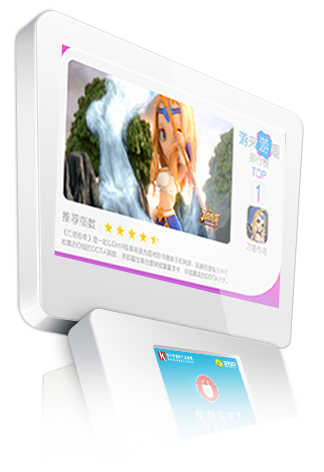
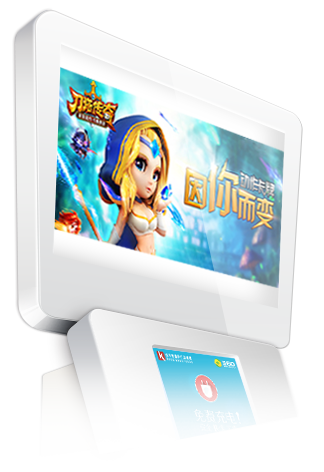
serve.html 图文变更

diff --git a/styles/index.css b/styles/index.css
@@ -1,2 +1,2 @@
-*{margin:0;padding:0;border:0}html{font-family:"Microsoft Yahei", "Helvetica Neue", Helvetica, STHeiTi, Arial, sans-serif;font-size:62.5%}body{margin:0;font-size:14px;font-size:1.4rem;line-height:1.5;background-color:white;height:100%;-webkit-overflow-scrolling:touch}ol,ul,li{list-style-type:none;margin:0;padding:0}a{text-decoration:none}i,em,strong,span,address{font-style:normal}h1,h2{font-size:14px;font-size:1.4rem}h3,h4{font-size:14px;font-size:1.2rem}body,h1,h2,h3,h4,h5,h6,hr,p,blockquote,dl,dt,dd,ul,ol,li,pre,form,fieldset,legend,button,input,textarea,th,td{margin:0;padding:0;word-wrap:break-word}.cf:before,.cf:after{content:"";display:table}.cf:after{clear:both}.cf{zoom:1}article,aside,details,figcaption,figure,footer,header,hgroup,main,nav,section,summary{display:block}audio,canvas,progress,video{display:inline-block;vertical-align:baseline}.about-pro h2 span,.about-team h2 span,.about-history h2 span,.cooperation-bk h2 span,.contact-info-tt h2 span{float:left;width:40px;height:55px;background:#e5e5e5}.about-pro h2 i,.about-team h2 i,.about-history h2 i,.cooperation-bk h2 i,.contact-info-tt h2 i{margin-left:23px;width:50%;height:55px;float:left}.about-pro h2,.about-team h2,.about-history h2,.cooperation-bk h2{height:55px;text-indent:-999em}.serve-warp,.about-wrap,.cooperation-wrap{width:100%;overflow:hidden;background:#fff}.serve-btn{width:96%;overflow:hidden}.icons-sprite,.logo,.banner-tt h2,.item-icon1,.item-icon2,.item-icon3,.serve-tt em,.serve-bg1 article h3,.serve-bg2 article h3,.serve-bg3 article h3,.serve-bg4 article h3,.serve-bg5 article h3,.serve-bg6 article h3,.product-tt h2,.product-content .product-content-tt1,.product-content .product-content-tt2{background:url('../images/icons-scd5a36a2de.png') no-repeat}.icons2-sprite,.about-pro h2 i,.about-team h2 i,.cp-phone,.cp-address,.about-history h2 i,.about-history-big-node span i,.cooperation-bk h2 i,.cooperation-bk2 h2 i,.contact-icon-phone,.contact-icon-fax,.contact-icon-mail,.contact-icon-address,.contact-icon-wx,.wx-box p,.contact-info-tt h2 i,.contact-area .contact-info-tt h2 i,.about-value h2{background:url('../images/icons2-s67d999bacb.png') no-repeat}.nav-list li,.foot-nav li a,.index-block-item-icon span,.v2-item-mv,.v4-index-block .index-block-item .index-block-item-icon,.v4-add p,.serve-btn em,.team-intro,.cooperation-list-pic-box,.pic-box-btn,.pic-box-btn-icon,.contact-icon-wx a{-webkit-transition:all .3s ease-in-out 0s;-moz-transition:all .3s ease-in-out 0s;-ms-transition:all .3s ease-in-out 0s;-o-transition:all .3s ease-in-out 0s;transition:all .3s ease-in-out 0s}body{color:#919da4;background:#f9f9f9}a{color:#919da4}a:hover{color:#346eb4}.wrap-box{margin:0 auto;width:1280px;background:#ffffff}.head{height:120px;overflow:hidden}.logo{float:left;margin:28px 0 0 30px;width:360px;height:63px;overflow:hidden;text-indent:-999em;background-position:0 0}.logo a{height:63px;display:block}.nav-main{float:right;padding-right:25px;height:120px}.nav-list{position:relative;float:right;height:120px;overflow:hidden}.nav-list li{margin-top:50px;float:left;width:100px;height:20px;line-height:20px;text-align:center;border-right:2px solid transparent}.nav-list li:hover>a{color:#0cb4e3}.nav-list li a{font-size:18px;font-size:1.8rem}.nav-list li:nth-last-child(2){border-right:0 none}.nav-list li:nth-child(1):hover ~ .active-line{left:0}.nav-list li:nth-child(2):hover ~ .active-line{left:102px}.nav-list li:nth-child(3):hover ~ .active-line{left:204px}.nav-list li:nth-child(4):hover ~ .active-line{left:306px}.nav-list li:nth-child(5):hover ~ .active-line{left:408px}.nav-list li:nth-child(6):hover ~ .active-line{left:510px}.nav-list li:nth-child(7):hover ~ .active-line{left:612px}.nav-list .active>a{color:#0cb4e3}.nav-list .active-line{position:absolute;top:-50px;left:0;height:6px;border-right:0 none;background:#0cb4e3}.nav-list ul{position:relative;top:0;left:0;z-index:999;display:block;box-shadow:0 3px 5px #ececec}.nav-list ul li{position:relative;top:0;left:0;padding:2px 0;margin-top:0;float:none;opacity:0;display:none;height:0}.nav-list ul li a{font-size:16px;font-size:1.6rem}.nav-list li:hover>ul>li{height:20px;opacity:1;display:block}.slide{height:435px;overflow:hidden;_display:none}.banner-tt{*margin-bottom:40px;height:150px;overflow:hidden}.banner-tt h2{margin:30px auto 0 auto;width:388px;height:85px;background-position:0 -238px;overflow:hidden;text-indent:-999em}.banner-tt h3{margin-top:34px;font-size:34px;text-align:center;font-family:Arial;color:#2b363c}.foot{padding-top:10px;height:78px;background:#f9f9f9;overflow:hidden}.foot p{text-align:center}.foot-nav{margin:30px 25px 0 0;float:right;text-align:center}.foot-nav li{margin-right:30px;display:inline}.foot-nav li a{font-size:14px;font-size:1.4rem;color:#fff}.foot-nav li a:hover{color:#616161}.foot-nav .active a{color:#616161}.index-block{margin-bottom:10px;height:250px;overflow:hidden}.index-block-item{margin-right:0.3125%;float:left;width:33.125%;height:250px;border-radius:10px;background:#50f4d3}.index-block-item:hover span{-webkit-transform:rotate(360deg);-moz-transform:rotate(360deg);-ms-transform:rotate(360deg);-o-transform:rotate(360deg);transform:rotate(360deg)}.index-block-item h3{height:26px;line-height:26px;font-size:24px;font-size:2.4rem;color:#ffffff;font-weight:normal;text-align:center}.index-block-item p{margin:10px 24px 0 24px;text-align:center;font-size:14px;font-size:1.4rem;color:#ffffff}.index-block-item2{background:#43dae3}.index-block-item3{margin-right:0;background:#15bee9}.slide #seven_lbox{display:none}.index-block-item-icon{position:relative;height:160px}.index-block-item-icon span{margin:-32px 0 0 -32px;position:absolute;top:50%;left:50%;width:64px;height:64px;display:block;-webkit-transition-duration:0.5s;-moz-transition-duration:0.5s;-ms-transition-duration:0.5s;-o-transition-duration:0.5s;transition-duration:0.5s}.item-icon1{background-position:0 -911px}.item-icon2{background-position:0 -1031px}.item-icon3{background-position:0 -1105px}.index-block-v2{margin:0 60px 65px 60px;height:156px;overflow:hidden}.v2-item{position:relative;margin-right:12.75862068965517%;float:left;width:288px;height:156px;background:#ff8106;border-radius:30px;overflow:hidden;_margin-right:140px}.v2-item:hover .v2-item-mv{top:-130px}.v2-item-color2{background:#11c8eb}.v2-item-color3{margin-right:0;background:#62ce38}.v2-item-mv{position:absolute;top:0;width:100%;height:312px;overflow:hidden}.v2-item-mv span{position:relative;top:30px;left:50%;margin-left:-32px;width:64px;height:64px;display:block}.v2-item-mv .v2-item-tt{margin-top:40px;height:20px;line-height:20px;font-size:18px;font-size:1.8rem;color:#ffffff;text-align:center}.v2-item-mv .v2-item-info{margin:66px 10px 0 10px;font-size:14px;font-size:1.4rem;color:#ffffff;text-align:center}.index2-slide{height:500px}.v3-banner-tt{background:url(../images/slider-shadow.jpg) 0 0 no-repeat}.v4-index-block{margin-top:40px}.v4-index-block .index-block-item{position:relative;background-color:transparent}.v4-index-block .index-block-item .index-block-item-icon{position:relative;left:50%;margin-left:-52px;width:104px;height:104px;border-radius:50%;background-color:#c1c1c1}.v4-index-block .index-block-item .index-block-item-icon span{border-radius:50%}.v4-index-block .index-block-item .index-block-item-icon2{position:relative;left:50%;margin-left:-42px;width:84px;height:84px}.v4-index-block .index-block-item .index-block-item-icon2 span{width:100%;height:100%;display:block}.v4-index-block .index-block-item .index-block-item-icon2 .item-icon1{background:url(../images/v3-logo1.png) 0 0 no-repeat}.v4-index-block .index-block-item .index-block-item-icon2 .item-icon2{background:url(../images/v3-logo2.png) 0 0 no-repeat}.v4-index-block .index-block-item .index-block-item-icon2 .item-icon3{background:url(../images/v3-logo3.png) 0 0 no-repeat}.v4-index-block .index-block-item h3,.v4-index-block .index-block-item p{color:#a3a3a3}.v4-index-block .index-block-item h3{margin-top:25px}.v4-index-block .index-block-item:hover .index-block-item-icon{background-color:#15bee9}.v4-add p{margin-top:60px;opacity:0}.v4-add:hover>p{margin-top:14px;opacity:1}.v3-banner-tt .v3-banner-img{margin-top:54px;width:525px;height:89px;overflow:hidden;background:url(../images/v3-title.png) 0 0 no-repeat}.server-list{overflow:hidden}.server-list li{height:600px}.server-list li:nth-of-type(2n+2){background:#f9f9f9}.serve-tt{margin:0 auto;overflow:hidden;height:180px;background:#f9f9f9}.serve-tt em{margin:74px auto 0 auto;width:402px;height:44px;display:block;background-position:0 -520px}.serve-section{margin:0 auto;height:600px;overflow:hidden}.serve-section h3{text-indent:-999em;height:74px}.serve-section p{margin-top:12px;font-size:18px;font-size:1.8rem;line-height:34px}.serve-bg1{background:url(../images/1.png) 115px 115px no-repeat}.serve-bg1 article{margin:224px 150px 0 0;float:right;width:390px}.serve-bg1 article h3{background-position:0 -333px}.serve-bg2{background:url(../images/2.png) 682px 110px no-repeat}.serve-bg2 article{margin:240px 0 0 150px;float:left;width:378px}.serve-bg2 article h3{height:75px;background-position:0 -743px}.serve-bg3{background:url(../images/3.png) 168px center no-repeat}.serve-bg3 article{margin:220px 150px 0 0;float:right;width:328px}.serve-bg3 article h3{background-position:0 -574px}.serve-bg4{background:url(../images/4.png) 710px 132px no-repeat}.serve-bg4 article{margin:270px 0 0 146px;float:left;width:392px}.serve-bg4 article h3{height:36px;background-position:0 -474px}.serve-bg5{background:url(../images/5.png) 20% center no-repeat}.serve-bg5 article{margin:196px 226px 0 0;float:right;width:406px}.serve-bg5 article h3{background-position:0 -827px}.serve-bg6{background:url(../images/6.png) 692px 186px no-repeat}.serve-bg6 article{margin:212px 0 0 154px;float:left;width:240px}.serve-bg6 article h3{background-position:0 -658px}.serve-btn{margin:0 auto}.serve-btn em{padding:0 20px;margin:45px auto 30px auto;width:280px;height:50px;line-height:50px;background:#0cb4e3;display:block;text-align:center;border-radius:50px}.serve-btn em:hover{opacity:.8}.serve-btn em a{height:50px;display:block;font-size:18px;font-size:1.8rem;color:#ffffff}.no-cus{cursor:default}.product-wrap{width:100%;overflow:hidden}.product-tt{height:180px;background-color:#f9f9f9;overflow:hidden}.product-tt h2{text-indent:-9999em;margin:70px auto 0 auto;width:409px;height:47px;overflow:hidden;background-position:0 -417px}.product-content{position:relative;height:890px;background:#fff url(../images/product-bg.png) 184px 138px no-repeat;overflow:hidden}.product-content article{float:right;margin:92px 150px 50px 0;width:450px;overflow:hidden}.product-content h3{text-indent:-99999em}.product-content p{margin-top:10px;font-size:18px;font-size:1.8rem;color:#a3a3a3}.product-content .product-content-tt1{height:36px;background-position:0 -985px}.product-content .product-content-tt2{margin-top:85px;height:155px;background-position:0 -73px}.about-banner{height:435px;background:url(../images/banner.jpg) 0 0 no-repeat}.about-wrap{padding-bottom:86px}.about-pro{margin:95px auto 0 auto;overflow:hidden}.about-pro h2{margin-bottom:15px}.about-pro h2 i{background-position:0 -546px}.about-pro p{margin:5px 58px;font-size:16px;font-size:1.6rem;text-indent:2em;color:#a3a3a3;line-height:30px}.about-team{margin:50px auto 0 auto;overflow:hidden}.about-team h2{margin-bottom:15px}.about-team h2 i{background-position:0 -471px}.about-team .about-team-list{margin-left:10.15625%;padding-top:22px;overflow:hidden}.about-team .about-team-list li{position:relative;margin-right:3.75%;float:left;width:224px;height:338px;overflow:hidden}.about-team .about-team-list li:hover .team-intro{opacity:1}.about-team .about-team-list li span{position:relative;width:224px;height:292px;display:block;overflow:hidden}.about-team .about-team-list li span img{width:100%}.about-team .about-team-list li span:after{content:'';position:absolute;top:0;left:0;z-index:999;width:0;height:0;border:35px solid transparent;border-top:35px solid #fff;border-left:35px solid #fff;display:block}.about-team .about-team-list li span:before{content:'';position:absolute;bottom:0;right:0;z-index:999;width:0;height:0;border:40px solid transparent;border-bottom:40px solid #fff;border-right:40px solid #fff;display:block}.about-team .about-team-list li p{height:45px;line-height:45px;font-size:2.4rem;font-size:24px;color:#a3a3a3}.about-subsidiary-list li{padding:30px 0 0 0;width:50%;height:132px;border-bottom:1px solid #ececec;float:left}.about-subsidiary-list li:nth-child(2n)::after{content:'';position:relative;top:-120px;left:-10px;width:1px;height:130px;display:block;border-left:1px solid #ececec}.about-subsidiary-list address{margin-left:5px;height:20px;line-height:20px;margin-bottom:15px;font-size:16px;font-size:1.6rem;color:#a3a3a3}.about-subsidiary-list .cp-name{font-weight:bold;font-size:18px;font-size:1.8rem;color:#919da4}.cp-phone,.cp-address{padding-left:26px}.cp-phone{background-position:0 -967px}.cp-address{background-position:0 -927px}.about-history{margin-top:70px;overflow:hidden}.about-history h2{margin-bottom:15px}.about-history h2 i{background-position:0 -396px}.about-history-big-node{margin:52px 0 32px 136px;height:92px}.about-history-big-node span{position:relative;float:left;width:92px;height:92px;border-radius:50%;background-color:#15bee9}.about-history-big-node span::after{content:'';position:absolute;bottom:-60px;left:45px;width:3px;height:60px;background-color:#15bee9}.about-history-big-node span i{margin:24px 0 0 25px;width:44px;height:44px;display:block;overflow:hidden;background-position:0 -621px}.about-history-big-node p{float:left;margin-left:20px;height:92px;font-size:36px;font-size:3.6rem;line-height:92px;color:#15bee9}.about-history-small-node{margin:0 0 22px 168px;height:30px}.about-history-small-node span{position:relative;float:left;width:30px;height:30px;display:block;border-radius:50%;background-color:#15bee9}.about-history-small-node span::after{content:'';position:absolute;bottom:-50px;left:13px;width:3px;height:62px;background-color:#15bee9}.about-history-small-node p{margin-left:28px;float:left;height:30px;line-height:30px;font-size:18px;font-size:1.8rem;color:#a3a3a3}.big-node-last{margin-left:250px;height:92px;line-height:92px;font-size:36px;font-size:3.6rem;color:#15bee9}.team-intro{position:absolute;top:0;left:0;width:100%;height:292px;opacity:0;background-color:rgba(0,0,0,0.4)}.team-intro .team-info{margin:30px 28px 0 28px;font-size:14px;font-size:1.4rem;color:#ffffff}.team-intro .team-intro-tt{padding-right:10px;height:34px;line-height:34px;font-size:24px;font-size:2.4rem;color:#ffffff;text-align:right;background:rgba(21,190,233,0.6)}.cooperation-wrap{margin-top:30px;background:#ffffff}.cooperation-bk{margin:0 auto;overflow:hidden}.cooperation-bk h2 i{background-position:0 -171px}.cooperation-bk2 h2 i{background-position:0 -246px}.cooperation-list{padding:32px 0 48px 0;overflow:hidden}.cooperation-list li{float:left;width:33.33333333333333%;height:150px;border-radius:5px}.cooperation-list img{width:100%}.cooperation-list em{margin-top:10px;display:block;font-size:18px;font-size:1.8rem;text-align:center}.cooperation-list i{margin-top:4px;display:block;font-size:16px;font-size:1.6rem;color:#a3a3a3;text-align:center}.cooperation-list-pic-box{position:relative;left:20%;width:240px;height:110px;display:block;border-radius:5px;overflow:hidden}.cooperation-list-pic-box img{width:100%}.cooperation-list-pic-box:hover .pic-box-btn{opacity:1}.cooperation-list-pic-box:hover .pic-box-btn-icon{left:50%}.pic-box-btn{position:absolute;top:0;left:0;width:100%;height:100%;background:rgba(0,0,0,0.5);border-radius:5px;opacity:0}.pic-box-btn-icon{padding:10px;position:absolute;top:50%;left:-60px;margin:-20px 0 0 -20px;width:20px;height:20px;display:block;background-color:#ffffff;border-radius:5px;line-height:20px;font-size:20px;font-weight:bold;text-align:center}.pic-box-btn-icon:hover{border-radius:50%}.contact-map{height:435px;overflow:hidden;background:url(../images/map.jpg) 0 0 no-repeat}.contact-info{width:100%;height:205px;overflow:hidden}.contact-info .left{padding-top:30px;float:left;width:72%}.contact-info .left address{margin-left:8.6%;padding-left:40px;height:24px;font-size:16px;font-size:1.6rem;color:#a3a3a3;line-height:24px}.contact-info .right{float:right;width:28%}.contact-icon-phone{background-position:0 -1139px}.contact-icon-fax{background-position:0 -1095px}.contact-icon-mail{background-position:0 -1007px}.contact-icon-address{background-position:0 -1183px}.contact-icon-wx{background-position:0 -1051px}.contact-icon-wx a{color:#0cb4e3;text-decoration:none}.contact-icon-wx a:hover{color:#346eb4}.wx-box{margin-top:55px;height:160px}.wx-box span{margin-left:124px;width:96px;height:96px;display:block}.wx-box span img{width:100px}.wx-box p{margin:10px 0 0 105px;height:22px;padding-left:32px;font-size:16px;font-size:1.6rem;line-height:22px;color:#919da4;background-position:0 -841px}.contact-info-tt{height:55px;overflow:hidden}.contact-info-tt h2{height:55px;text-indent:-9999em}.contact-info-tt h2 i{background-position:0 -321px}.contact-area{overflow:hidden}.contact-area .contact-info-tt h2 i{background-position:0 -48px}.company-item{float:left;width:33.3333333%}.company-item p{margin-left:19%;font-size:18px;font-size:1.8rem;color:#a3a3a3}.content-us-btn{margin:0 auto;height:35px;background:#34baff}.list-wrap{width:100%;overflow:hidden}.list-ullist{width:100%;overflow:hidden}.list-ullist li{padding:0 4%;height:114px;border:1px solid #a5a2a2;background:#ededed;overflow:hidden}.list-ullist li:nth-child(2n+1){background:#f6f6f6}.list-news-date{position:relative;top:50%;margin-top:-30px;padding:10px 6px;width:48px;height:40px;border-radius:5px;background:#0cb4e3}.time-size-little{height:12px;line-height:12px;font-size:10px;font-size:1rem;color:#ffffff;font-family:"Arial";display:block}.time-size-large{height:32px;line-height:32px;font-size:30px;font-size:3rem;color:#ffffff;font-family:"Arial";display:block;text-align:right}.list-news-info{margin-left:70px;overflow:hidden}.list-news-info h2{font-size:20px;font-size:2rem;height:30px;line-height:30px;border-bottom:1px solid #ececec}.list-news-info p{height:29px;line-height:29px;font-size:16px;font-size:1.6rem;color:#a3a3a3}.about-value{margin-top:15px}.about-value h2{margin-bottom:15px;background-position:0 0}.letter-sp{letter-spacing:2px;margin-top:30px;margin-bottom:2px}a[href^="http://www.51.la"]{display:none}#seven_lbox{display:none}
+*{margin:0;padding:0;border:0}html{font-family:"Microsoft Yahei", "Helvetica Neue", Helvetica, STHeiTi, Arial, sans-serif;font-size:62.5%}body{margin:0;font-size:14px;font-size:1.4rem;line-height:1.5;background-color:white;height:100%;-webkit-overflow-scrolling:touch}ol,ul,li{list-style-type:none;margin:0;padding:0}a{text-decoration:none}i,em,strong,span,address{font-style:normal}h1,h2{font-size:14px;font-size:1.4rem}h3,h4{font-size:14px;font-size:1.2rem}body,h1,h2,h3,h4,h5,h6,hr,p,blockquote,dl,dt,dd,ul,ol,li,pre,form,fieldset,legend,button,input,textarea,th,td{margin:0;padding:0;word-wrap:break-word}.cf:before,.cf:after{content:"";display:table}.cf:after{clear:both}.cf{zoom:1}article,aside,details,figcaption,figure,footer,header,hgroup,main,nav,section,summary{display:block}audio,canvas,progress,video{display:inline-block;vertical-align:baseline}.about-pro h2 span,.about-team h2 span,.about-history h2 span,.cooperation-bk h2 span,.contact-info-tt h2 span{float:left;width:40px;height:55px;background:#e5e5e5}.about-pro h2 i,.about-team h2 i,.about-history h2 i,.cooperation-bk h2 i,.contact-info-tt h2 i{margin-left:23px;width:50%;height:55px;float:left}.about-pro h2,.about-team h2,.about-history h2,.cooperation-bk h2{height:55px;text-indent:-999em}.serve-warp,.about-wrap,.cooperation-wrap{width:100%;overflow:hidden;background:#fff}.serve-btn{width:96%;overflow:hidden}.icons-sprite,.logo,.banner-tt h2,.item-icon1,.item-icon2,.item-icon3,.serve-tt em,.serve-bg1 article h3,.serve-bg2 article h3,.serve-bg3 article h3,.serve-bg4 article h3,.serve-bg5 article h3,.serve-bg6 article h3,.product-tt h2,.product-content .product-content-tt1,.product-content .product-content-tt2{background:url('../images/icons-scd5a36a2de.png') no-repeat}.icons2-sprite,.about-pro h2 i,.about-team h2 i,.cp-phone,.cp-address,.about-history h2 i,.about-history-big-node span i,.cooperation-bk h2 i,.cooperation-bk2 h2 i,.contact-icon-phone,.contact-icon-fax,.contact-icon-mail,.contact-icon-address,.contact-icon-wx,.wx-box p,.contact-info-tt h2 i,.contact-area .contact-info-tt h2 i,.about-value h2{background:url('../images/icons2-s67d999bacb.png') no-repeat}.nav-list li,.foot-nav li a,.index-block-item-icon span,.v2-item-mv,.v4-index-block .index-block-item .index-block-item-icon,.v4-add p,.serve-btn em,.team-intro,.cooperation-list-pic-box,.pic-box-btn,.pic-box-btn-icon,.contact-icon-wx a{-webkit-transition:all .3s ease-in-out 0s;-moz-transition:all .3s ease-in-out 0s;-ms-transition:all .3s ease-in-out 0s;-o-transition:all .3s ease-in-out 0s;transition:all .3s ease-in-out 0s}body{color:#919da4;background:#f9f9f9}a{color:#919da4}a:hover{color:#346eb4}.wrap-box{margin:0 auto;width:1280px;background:#ffffff}.head{height:120px;overflow:hidden}.logo{float:left;margin:28px 0 0 30px;width:360px;height:63px;overflow:hidden;text-indent:-999em;background-position:0 0}.logo a{height:63px;display:block}.nav-main{float:right;padding-right:25px;height:120px}.nav-list{position:relative;float:right;height:120px;overflow:hidden}.nav-list li{margin-top:50px;float:left;width:100px;height:20px;line-height:20px;text-align:center;border-right:2px solid transparent}.nav-list li:hover>a{color:#0cb4e3}.nav-list li a{font-size:18px;font-size:1.8rem}.nav-list li:nth-last-child(2){border-right:0 none}.nav-list li:nth-child(1):hover ~ .active-line{left:0}.nav-list li:nth-child(2):hover ~ .active-line{left:102px}.nav-list li:nth-child(3):hover ~ .active-line{left:204px}.nav-list li:nth-child(4):hover ~ .active-line{left:306px}.nav-list li:nth-child(5):hover ~ .active-line{left:408px}.nav-list li:nth-child(6):hover ~ .active-line{left:510px}.nav-list li:nth-child(7):hover ~ .active-line{left:612px}.nav-list .active>a{color:#0cb4e3}.nav-list .active-line{position:absolute;top:-50px;left:0;height:6px;border-right:0 none;background:#0cb4e3}.nav-list ul{position:relative;top:0;left:0;z-index:999;display:block;box-shadow:0 3px 5px #ececec}.nav-list ul li{position:relative;top:0;left:0;padding:2px 0;margin-top:0;float:none;opacity:0;display:none;height:0}.nav-list ul li a{font-size:16px;font-size:1.6rem}.nav-list li:hover>ul>li{height:20px;opacity:1;display:block}.slide{height:435px;overflow:hidden;_display:none}.banner-tt{*margin-bottom:40px;height:150px;overflow:hidden}.banner-tt h2{margin:30px auto 0 auto;width:388px;height:85px;background-position:0 -238px;overflow:hidden;text-indent:-999em}.banner-tt h3{margin-top:34px;font-size:34px;text-align:center;font-family:Arial;color:#2b363c}.foot{padding-top:10px;height:78px;background:#f9f9f9;overflow:hidden}.foot p{text-align:center}.foot-nav{margin:30px 25px 0 0;float:right;text-align:center}.foot-nav li{margin-right:30px;display:inline}.foot-nav li a{font-size:14px;font-size:1.4rem;color:#fff}.foot-nav li a:hover{color:#616161}.foot-nav .active a{color:#616161}.index-block{margin-bottom:10px;height:250px;overflow:hidden}.index-block-item{margin-right:0.3125%;float:left;width:33.125%;height:250px;border-radius:10px;background:#50f4d3}.index-block-item:hover span{-webkit-transform:rotate(360deg);-moz-transform:rotate(360deg);-ms-transform:rotate(360deg);-o-transform:rotate(360deg);transform:rotate(360deg)}.index-block-item h3{height:26px;line-height:26px;font-size:24px;font-size:2.4rem;color:#ffffff;font-weight:normal;text-align:center}.index-block-item p{margin:10px 24px 0 24px;text-align:center;font-size:14px;font-size:1.4rem;color:#ffffff}.index-block-item2{background:#43dae3}.index-block-item3{margin-right:0;background:#15bee9}.slide #seven_lbox{display:none}.index-block-item-icon{position:relative;height:160px}.index-block-item-icon span{margin:-32px 0 0 -32px;position:absolute;top:50%;left:50%;width:64px;height:64px;display:block;-webkit-transition-duration:0.5s;-moz-transition-duration:0.5s;-ms-transition-duration:0.5s;-o-transition-duration:0.5s;transition-duration:0.5s}.item-icon1{background-position:0 -911px}.item-icon2{background-position:0 -1031px}.item-icon3{background-position:0 -1105px}.index-block-v2{margin:0 60px 65px 60px;height:156px;overflow:hidden}.v2-item{position:relative;margin-right:12.75862068965517%;float:left;width:288px;height:156px;background:#ff8106;border-radius:30px;overflow:hidden;_margin-right:140px}.v2-item:hover .v2-item-mv{top:-130px}.v2-item-color2{background:#11c8eb}.v2-item-color3{margin-right:0;background:#62ce38}.v2-item-mv{position:absolute;top:0;width:100%;height:312px;overflow:hidden}.v2-item-mv span{position:relative;top:30px;left:50%;margin-left:-32px;width:64px;height:64px;display:block}.v2-item-mv .v2-item-tt{margin-top:40px;height:20px;line-height:20px;font-size:18px;font-size:1.8rem;color:#ffffff;text-align:center}.v2-item-mv .v2-item-info{margin:66px 10px 0 10px;font-size:14px;font-size:1.4rem;color:#ffffff;text-align:center}.index2-slide{height:500px}.v3-banner-tt{background:url(../images/slider-shadow.jpg) 0 0 no-repeat}.v4-index-block{margin-top:40px}.v4-index-block .index-block-item{position:relative;background-color:transparent}.v4-index-block .index-block-item .index-block-item-icon{position:relative;left:50%;margin-left:-52px;width:104px;height:104px;border-radius:50%;background-color:#c1c1c1}.v4-index-block .index-block-item .index-block-item-icon span{border-radius:50%}.v4-index-block .index-block-item .index-block-item-icon2{position:relative;left:50%;margin-left:-42px;width:84px;height:84px}.v4-index-block .index-block-item .index-block-item-icon2 span{width:100%;height:100%;display:block}.v4-index-block .index-block-item .index-block-item-icon2 .item-icon1{background:url(../images/v3-logo1.png) 0 0 no-repeat}.v4-index-block .index-block-item .index-block-item-icon2 .item-icon2{background:url(../images/v3-logo2.png) 0 0 no-repeat}.v4-index-block .index-block-item .index-block-item-icon2 .item-icon3{background:url(../images/v3-logo3.png) 0 0 no-repeat}.v4-index-block .index-block-item h3,.v4-index-block .index-block-item p{color:#a3a3a3}.v4-index-block .index-block-item h3{margin-top:25px}.v4-index-block .index-block-item:hover .index-block-item-icon{background-color:#15bee9}.v4-add p{margin-top:60px;opacity:0}.v4-add:hover>p{margin-top:14px;opacity:1}.v3-banner-tt .v3-banner-img{margin-top:54px;width:525px;height:89px;overflow:hidden;background:url(../images/v3-title.png) 0 0 no-repeat}.server-list{overflow:hidden}.server-list li{height:600px}.server-list li:nth-of-type(2n+2){background:#f9f9f9}.serve-tt{margin:0 auto;overflow:hidden;height:180px;background:#f9f9f9}.serve-tt em{margin:74px auto 0 auto;width:402px;height:44px;display:block;background-position:0 -520px}.serve-section{margin:0 auto;height:600px;overflow:hidden}.serve-section h3{text-indent:-999em;height:74px}.serve-section p{margin-top:12px;font-size:18px;font-size:1.8rem;line-height:34px}.serve-bg1{background:url(../images/1.png) 700px 50px no-repeat}.serve-bg1 article{margin:220px 0 0 150px;float:left;width:390px}.serve-bg1 article h3{background-position:0 -333px}.serve-bg2{background:url(../images/2.png) 150px 110px no-repeat}.serve-bg2 article{margin:240px 0 0 750px;float:left;width:378px}.serve-bg2 article h3{height:75px;background-position:0 -743px}.serve-bg3{background:url(../images/3.png) 168px center no-repeat}.serve-bg3 article{margin:220px 150px 0 0;float:right;width:328px}.serve-bg3 article h3{background-position:0 -574px}.serve-bg4{background:url(../images/4.png) 710px 132px no-repeat}.serve-bg4 article{margin:270px 0 0 146px;float:left;width:392px}.serve-bg4 article h3{height:36px;background-position:0 -474px}.serve-bg5{background:url(../images/5.png) 20% center no-repeat}.serve-bg5 article{margin:196px 226px 0 0;float:right;width:406px}.serve-bg5 article h3{background-position:0 -827px}.serve-bg6{background:url(../images/6.png) 708px 74px no-repeat}.serve-bg6 article{margin:212px 0 0 154px;float:left;width:240px}.serve-bg6 article h3{background-position:0 -658px}.serve-btn{margin:0 auto}.serve-btn em{padding:0 20px;margin:45px auto 30px auto;width:280px;height:50px;line-height:50px;background:#0cb4e3;display:block;text-align:center;border-radius:50px}.serve-btn em:hover{opacity:.8}.serve-btn em a{height:50px;display:block;font-size:18px;font-size:1.8rem;color:#ffffff}.no-cus{cursor:default}.product-wrap{width:100%;overflow:hidden}.product-tt{height:180px;background-color:#f9f9f9;overflow:hidden}.product-tt h2{text-indent:-9999em;margin:70px auto 0 auto;width:409px;height:47px;overflow:hidden;background-position:0 -417px}.product-content{position:relative;height:890px;background:#fff url(../images/product-bg.png) 184px 138px no-repeat;overflow:hidden}.product-content article{float:right;margin:92px 150px 50px 0;width:450px;overflow:hidden}.product-content h3{text-indent:-99999em}.product-content p{margin-top:10px;font-size:18px;font-size:1.8rem;color:#a3a3a3}.product-content .product-content-tt1{height:36px;background-position:0 -985px}.product-content .product-content-tt2{margin-top:85px;height:155px;background-position:0 -73px}.about-banner{height:435px;background:url(../images/banner.jpg) 0 0 no-repeat}.about-wrap{padding-bottom:86px}.about-pro{margin:95px auto 0 auto;overflow:hidden}.about-pro h2{margin-bottom:15px}.about-pro h2 i{background-position:0 -546px}.about-pro p{margin:5px 58px;font-size:16px;font-size:1.6rem;text-indent:2em;color:#a3a3a3;line-height:30px}.about-team{margin:50px auto 0 auto;overflow:hidden}.about-team h2{margin-bottom:15px}.about-team h2 i{background-position:0 -471px}.about-team .about-team-list{margin-left:10.15625%;padding-top:22px;overflow:hidden}.about-team .about-team-list li{position:relative;margin-right:3.75%;float:left;width:224px;height:338px;overflow:hidden}.about-team .about-team-list li:hover .team-intro{opacity:1}.about-team .about-team-list li span{position:relative;width:224px;height:292px;display:block;overflow:hidden}.about-team .about-team-list li span img{width:100%}.about-team .about-team-list li span:after{content:'';position:absolute;top:0;left:0;z-index:999;width:0;height:0;border:35px solid transparent;border-top:35px solid #fff;border-left:35px solid #fff;display:block}.about-team .about-team-list li span:before{content:'';position:absolute;bottom:0;right:0;z-index:999;width:0;height:0;border:40px solid transparent;border-bottom:40px solid #fff;border-right:40px solid #fff;display:block}.about-team .about-team-list li p{height:45px;line-height:45px;font-size:2.4rem;font-size:24px;color:#a3a3a3}.about-subsidiary-list li{padding:30px 0 0 0;width:50%;height:132px;border-bottom:1px solid #ececec;float:left}.about-subsidiary-list li:nth-child(2n)::after{content:'';position:relative;top:-120px;left:-10px;width:1px;height:130px;display:block;border-left:1px solid #ececec}.about-subsidiary-list address{margin-left:5px;height:20px;line-height:20px;margin-bottom:15px;font-size:16px;font-size:1.6rem;color:#a3a3a3}.about-subsidiary-list .cp-name{font-weight:bold;font-size:18px;font-size:1.8rem;color:#919da4}.cp-phone,.cp-address{padding-left:26px}.cp-phone{background-position:0 -967px}.cp-address{background-position:0 -927px}.about-history{margin-top:70px;overflow:hidden}.about-history h2{margin-bottom:15px}.about-history h2 i{background-position:0 -396px}.about-history-big-node{margin:52px 0 32px 136px;height:92px}.about-history-big-node span{position:relative;float:left;width:92px;height:92px;border-radius:50%;background-color:#15bee9}.about-history-big-node span::after{content:'';position:absolute;bottom:-60px;left:45px;width:3px;height:60px;background-color:#15bee9}.about-history-big-node span i{margin:24px 0 0 25px;width:44px;height:44px;display:block;overflow:hidden;background-position:0 -621px}.about-history-big-node p{float:left;margin-left:20px;height:92px;font-size:36px;font-size:3.6rem;line-height:92px;color:#15bee9}.about-history-small-node{margin:0 0 22px 168px;height:30px}.about-history-small-node span{position:relative;float:left;width:30px;height:30px;display:block;border-radius:50%;background-color:#15bee9}.about-history-small-node span::after{content:'';position:absolute;bottom:-50px;left:13px;width:3px;height:62px;background-color:#15bee9}.about-history-small-node p{margin-left:28px;float:left;height:30px;line-height:30px;font-size:18px;font-size:1.8rem;color:#a3a3a3}.big-node-last{margin-left:250px;height:92px;line-height:92px;font-size:36px;font-size:3.6rem;color:#15bee9}.team-intro{position:absolute;top:0;left:0;width:100%;height:292px;opacity:0;background-color:rgba(0,0,0,0.4)}.team-intro .team-info{margin:30px 28px 0 28px;font-size:14px;font-size:1.4rem;color:#ffffff}.team-intro .team-intro-tt{padding-right:10px;height:34px;line-height:34px;font-size:24px;font-size:2.4rem;color:#ffffff;text-align:right;background:rgba(21,190,233,0.6)}.cooperation-wrap{margin-top:30px;background:#ffffff}.cooperation-bk{margin:0 auto;overflow:hidden}.cooperation-bk h2 i{background-position:0 -171px}.cooperation-bk2 h2 i{background-position:0 -246px}.cooperation-list{padding:32px 0 48px 0;overflow:hidden}.cooperation-list li{float:left;width:33.33333333333333%;height:150px;border-radius:5px}.cooperation-list img{width:100%}.cooperation-list em{margin-top:10px;display:block;font-size:18px;font-size:1.8rem;text-align:center}.cooperation-list i{margin-top:4px;display:block;font-size:16px;font-size:1.6rem;color:#a3a3a3;text-align:center}.cooperation-list-pic-box{position:relative;left:20%;width:240px;height:110px;display:block;border-radius:5px;overflow:hidden}.cooperation-list-pic-box img{width:100%}.cooperation-list-pic-box:hover .pic-box-btn{opacity:1}.cooperation-list-pic-box:hover .pic-box-btn-icon{left:50%}.pic-box-btn{position:absolute;top:0;left:0;width:100%;height:100%;background:rgba(0,0,0,0.5);border-radius:5px;opacity:0}.pic-box-btn-icon{padding:10px;position:absolute;top:50%;left:-60px;margin:-20px 0 0 -20px;width:20px;height:20px;display:block;background-color:#ffffff;border-radius:5px;line-height:20px;font-size:20px;font-weight:bold;text-align:center}.pic-box-btn-icon:hover{border-radius:50%}.contact-map{height:435px;overflow:hidden;background:url(../images/map.jpg) 0 0 no-repeat}.contact-info{width:100%;height:205px;overflow:hidden}.contact-info .left{padding-top:30px;float:left;width:72%}.contact-info .left address{margin-left:8.6%;padding-left:40px;height:24px;font-size:16px;font-size:1.6rem;color:#a3a3a3;line-height:24px}.contact-info .right{float:right;width:28%}.contact-icon-phone{background-position:0 -1139px}.contact-icon-fax{background-position:0 -1095px}.contact-icon-mail{background-position:0 -1007px}.contact-icon-address{background-position:0 -1183px}.contact-icon-wx{background-position:0 -1051px}.contact-icon-wx a{color:#0cb4e3;text-decoration:none}.contact-icon-wx a:hover{color:#346eb4}.wx-box{margin-top:55px;height:160px}.wx-box span{margin-left:124px;width:96px;height:96px;display:block}.wx-box span img{width:100px}.wx-box p{margin:10px 0 0 105px;height:22px;padding-left:32px;font-size:16px;font-size:1.6rem;line-height:22px;color:#919da4;background-position:0 -841px}.contact-info-tt{height:55px;overflow:hidden}.contact-info-tt h2{height:55px;text-indent:-9999em}.contact-info-tt h2 i{background-position:0 -321px}.contact-area{overflow:hidden}.contact-area .contact-info-tt h2 i{background-position:0 -48px}.company-item{float:left;width:33.3333333%}.company-item p{margin-left:19%;font-size:18px;font-size:1.8rem;color:#a3a3a3}.content-us-btn{margin:0 auto;height:35px;background:#34baff}.list-wrap{width:100%;overflow:hidden}.list-ullist{width:100%;overflow:hidden}.list-ullist li{padding:0 4%;height:114px;border:1px solid #a5a2a2;background:#ededed;overflow:hidden}.list-ullist li:nth-child(2n+1){background:#f6f6f6}.list-news-date{position:relative;top:50%;margin-top:-30px;padding:10px 6px;width:48px;height:40px;border-radius:5px;background:#0cb4e3}.time-size-little{height:12px;line-height:12px;font-size:10px;font-size:1rem;color:#ffffff;font-family:"Arial";display:block}.time-size-large{height:32px;line-height:32px;font-size:30px;font-size:3rem;color:#ffffff;font-family:"Arial";display:block;text-align:right}.list-news-info{margin-left:70px;overflow:hidden}.list-news-info h2{font-size:20px;font-size:2rem;height:30px;line-height:30px;border-bottom:1px solid #ececec}.list-news-info p{height:29px;line-height:29px;font-size:16px;font-size:1.6rem;color:#a3a3a3}.about-value{margin-top:15px}.about-value h2{margin-bottom:15px;background-position:0 0}.letter-sp{letter-spacing:2px;margin-top:30px;margin-bottom:2px}a[href^="http://www.51.la"]{display:none}#seven_lbox{display:none}
 /*@ sourceMappingURL=index.css.map */

diff --git a/serve.html b/serve.html
@@ -46,6 +46,19 @@
         </h2>
         <ul class="server-list">
             <li>
+                <section class="serve-section serve-bg5">
+                    <article>
+                        <h3>
+                            巨幕宣传
+                            加强用户高度回忆
+                        </h3>
+                        <p>
+                            用户在使用设备进行充电的同时，目标聚焦，加之巨幕声音的影响，能有效的通过听觉和视觉影像用户，吸引用户，在新品上市或活动促销时第一时间告知用户，在海量信息中脱颖而出，实现信息的有效到达。
+                        </p>
+                    </article>
+                </section>
+            </li>
+            <li>
                 <section class="serve-section serve-bg1">
                     <article>
                         <h3>
@@ -55,19 +68,6 @@
                         <p>
                             首创线下特权属性应用分发的移动互联网新媒体，
                             支持IOS安卓双平台下载。一键点击安装，极致用户体验。
-                        </p>
-                    </article>
-                </section>
-            </li>
-            <li>
-                <section class="serve-section serve-bg2">
-                    <article>
-                        <h3>
-                            多地域铺设
-                            多渠道共推
-                        </h3>
-                        <p>
-                            遍及多个省份城市，涉及机场、火车站、学校商场、影院等人群密集渠道。
                         </p>
                     </article>
                 </section>
@@ -99,14 +99,14 @@
                 </section>
             </li>
             <li>
-                <section class="serve-section serve-bg5">
+                <section class="serve-section serve-bg2">
                     <article>
                         <h3>
-                            巨幕宣传
-                            加强用户高度回忆
+                            多地域铺设
+                            多渠道共推
                         </h3>
                         <p>
-                            用户在使用设备进行充电的同时，目标聚焦，加之巨幕声音的影响，能有效的通过听觉和视觉影像用户，吸引用户，在新品上市或活动促销时第一时间告知用户，在海量信息中脱颖而出，实现信息的有效到达。
+                            遍及多个省份城市，涉及机场、火车站、学校商场、影院等人群密集渠道。
                         </p>
                     </article>
                 </section>

diff --git a/sass/index.scss b/sass/index.scss
@@ -472,10 +472,10 @@ a{
     }
 }
 .serve-bg1{
-  background: url(../images/1.png) 115px 115px no-repeat;
+  background: url(../images/1.png) 700px 50px no-repeat;
     article{
-      margin: 224px 150px 0 0;
-      float: right;
+      margin: 220px 0 0 150px;
+      float: left;
       width: 390px;
         h3{
           @include icons-sprite(serve1);
@@ -483,9 +483,9 @@ a{
         }
 }
 .serve-bg2{
-  background: url(../images/2.png) 682px 110px no-repeat;
+  background: url(../images/2.png) 150px 110px no-repeat;
   article{
-    margin: 240px 0 0 150px;
+    margin: 240px 0 0 750px;
     float: left;
     width: 378px;
     h3{
@@ -531,7 +531,7 @@ a{
   }
 }
 .serve-bg6{
-  background: url(../images/6.png) 692px 186px no-repeat;
+  background: url(../images/6.png) 708px 74px no-repeat;
   article{
     margin: 212px 0 0 154px;
     float: left;
